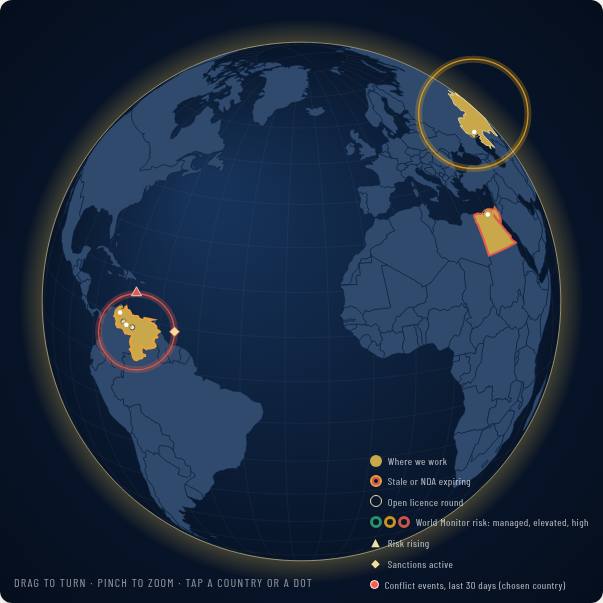
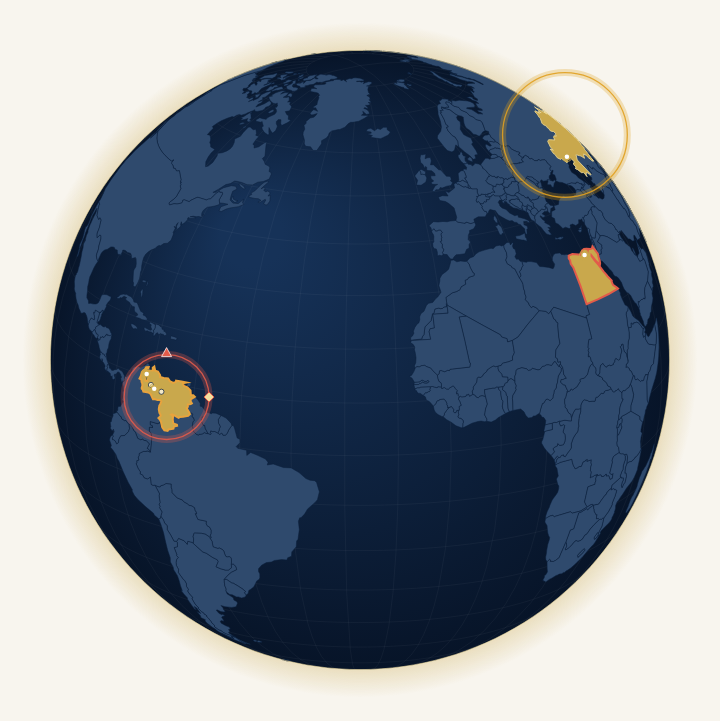
The globe stands on a full-width stage without a box, the legend sits on its right and turns into the chosen country's values
First live look at wave 8: the legend sat over the hint inside the blue
box and the globe was cropped. The globe is now centred on a full-width
stage up to 720 px with no box; the legend is a column on its right, under
the globe on an iPad in portrait; the register follows below in its own
scroll box. Choosing a country fills each legend line with that country's
values (projects, stale and NDA, open round, World Monitor index with tone
and trend, sanctions, conflict events near our fields), in both languages;
leaving restores the plain legend. The register column's column flexbox
collapsed to nothing below the stage, so it is a block now. W8-AC7 and
AC8, tests written first.

Claude-Session: https://claude.ai/code/session_01Cjvnf42mX2Ab9Sf24rXZ1W

diff --git a/hub/hub.js b/hub/hub.js
@@ -703,7 +703,7 @@ async function renderGlobe(person) {
       panel.setAttribute('hidden', ''); reg.removeAttribute('hidden'); if (filters) filters.removeAttribute('hidden'); unplaced.style.display = '';
       const intel = $('#country-intel'); if (intel) { intel.setAttribute('hidden', ''); intel.textContent = ''; intelFor = null; }
       showPack(null); showRound(null);
-      clearNear();
+      clearNear(); legendFor(null);
       if (globe) globe.select(null);
       return;
     }
@@ -719,12 +719,37 @@ async function renderGlobe(person) {
     const createRow = $('#country-create-row');
     if (createRow) { if (person && person.role === 'partner') createRow.removeAttribute('hidden'); else createRow.setAttribute('hidden', ''); }
     reg.setAttribute('hidden', ''); if (filters) filters.setAttribute('hidden', ''); unplaced.style.display = 'none'; panel.removeAttribute('hidden');
-    clearNear();
+    clearNear(); legendFor(code, c);
     renderIntel(code, names, { onLoaded: (S) => showNear(code, c, S) });
     showPack(code);
     showRound(code);
     if (briefUi) briefUi.loadCached(code);
     if (globe) globe.select(code, { fly: true });
+  }
+  // Wave 8 (W8-AC8): the legend turns into the chosen country's own values; nothing chosen, the plain legend.
+  const legendEl = $('#globe-legend');
+  const lv = (k) => legendEl && legendEl.querySelector('[data-legend-value="' + k + '"]');
+  const setLv = (k, en, es) => { const el = lv(k); if (!el) return; el.textContent = ''; if (en !== null && en !== undefined) setText(el, en, es); };
+  function legendFor(code, c) {
+    if (!legendEl) return;
+    if (!code) { legendEl.removeAttribute('data-country'); for (const el of legendEl.querySelectorAll('[data-legend-value]')) el.textContent = ''; return; }
+    legendEl.setAttribute('data-country', code);
+    const name = names.get(code) || (c && c.name) || { en: code, es: code };
+    const n = c ? c.projects.length : 0;
+    setLv('held', name.en + ' · ' + n + (n === 1 ? ' project' : ' projects'), name.es + ' · ' + n + (n === 1 ? ' proyecto' : ' proyectos'));
+    const st = c ? c.counts.stale : 0, ex = c ? c.counts.expiring : 0;
+    setLv('attention', st + ' stale · ' + ex + ' NDA expiring', st + ' obsoletos · ' + ex + ' NDA por vencer');
+    const open = (sec.getAttribute('data-rings') || '').split(',').includes(code);
+    setLv('round', open ? 'open round' : 'no open round', open ? 'ronda abierta' : 'sin ronda abierta');
+    const r = c && c.risk;
+    if (r && typeof r.score === 'number') {
+      const tone = toneOf(r.score), lab = RISK_LABEL[tone] || ['', ''];
+      const tr = r.trend === 'rising' ? ['rising', 'al alza'] : r.trend === 'falling' ? ['falling', 'a la baja'] : r.trend ? [r.trend, r.trend === 'stable' ? 'estable' : r.trend] : ['', ''];
+      setLv('halo', Math.round(r.score) + ' · ' + lab[0] + (tr[0] ? ' · ' + tr[0] : ''), Math.round(r.score) + ' · ' + lab[1] + (tr[1] ? ' · ' + tr[1] : ''));
+      setLv('rising', tr[0] || 'no trend', tr[1] || 'sin tendencia');
+      setLv('sanctions', r.sanctions_active ? (r.sanctions_count != null ? r.sanctions_count + ' designations' : 'active') : 'none recorded', r.sanctions_active ? (r.sanctions_count != null ? r.sanctions_count + ' designaciones' : 'vigentes') : 'ninguna registrada');
+    } else { for (const k of ['halo', 'rising', 'sanctions']) setLv(k, 'no reading', 'sin lectura'); }
+    setLv('events', 'reading…', 'leyendo…');
   }
   // Wave 8 (W8-AC4, W8-AC5): the chosen country's conflict events on the globe, the events within NEAR_KM of our located
   // projects and fields, and the tanker calls across its ports; cleared on leaving the country.
@@ -738,6 +763,7 @@ async function renderGlobe(person) {
   function showNear(code, c, S) {
     if (sec.getAttribute('data-country') !== code) return;                  // another country was chosen meanwhile
     const ev = S && S.events && S.events.ok && Array.isArray(S.events.data) ? S.events.data.filter((e) => Number.isFinite(e.lat) && Number.isFinite(e.lon)) : null;
+    if (!ev) setLv('events', 'not available', 'no disponible');
     if (ev && nearEl) {
       if (globe) globe.setEvents(ev);
       sec.setAttribute('data-events-shown', String(ev.length));
@@ -748,6 +774,7 @@ async function renderGlobe(person) {
       }
       const near = ours.length ? ev.filter((e) => ours.some(([la, lo]) => haversineKm(la, lo, e.lat, e.lon) <= NEAR_KM)) : [];
       const n = near.length, f = near.reduce((s, e) => s + (Number.isFinite(e.fatalities) ? e.fatalities : 0), 0), rest = ev.length - n;
+      setLv('events', ev.length + ' in 30 days · ' + n + ' within ' + NEAR_KM + ' km of our fields', ev.length + ' en 30 días · ' + n + ' a menos de ' + NEAR_KM + ' km de nuestros campos');
       nearEl.textContent = ''; nearEl.setAttribute('data-near-events', String(n));
       if (!ours.length) setText(nearEl, 'No located project or field here to measure from; ' + ev.length + (ev.length === 1 ? ' conflict event' : ' conflict events') + ' in the country in 30 days.', 'Sin proyecto ni campo ubicado aquí desde donde medir; ' + ev.length + (ev.length === 1 ? ' evento de conflicto' : ' eventos de conflicto') + ' en el país en 30 días.');
       else if (n) setText(nearEl, n + (n === 1 ? ' conflict event' : ' conflict events') + ' within ' + NEAR_KM + ' km of our fields in 30 days (' + f + (f === 1 ? ' fatality' : ' fatalities') + ')', n + (n === 1 ? ' evento' : ' eventos') + ' de conflicto a menos de ' + NEAR_KM + ' km de nuestros campos en 30 días (' + f + (f === 1 ? ' víctima mortal' : ' víctimas mortales') + ')');

diff --git a/hub/index.html b/hub/index.html
@@ -221,20 +221,22 @@
       <!-- THE GLOBE IS THE DOOR (wave 2 globe; wave 7 PR2 idea A): the globe and the live register beside it -->
       <section id="sec-globe" aria-labelledby="h-globe" data-globe="loading">
         <div class="hub-globe">
-          <div class="hub-globe-wrap">
-            <canvas id="globe" role="img" aria-label="Globe of where the firm works. Use the register beside it." data-en-aria="Globe of where the firm works. Use the register beside it." data-es-aria="Globo de dónde trabaja la firma. Use el registro al lado."></canvas>
-            <div class="hub-globe-tip" id="globe-tip" hidden aria-hidden="true"></div>
-            <p class="hub-globe-hint" data-en="Drag to turn · pinch to zoom · tap a country or a dot" data-es="Arrastre para girar · pellizque para acercar · toque un país o un punto">Drag to turn · pinch to zoom · tap a country or a dot</p>
+          <div class="hub-globe-stage">
+            <div class="hub-globe-wrap">
+              <canvas id="globe" role="img" aria-label="Globe of where the firm works. Use the register beside it." data-en-aria="Globe of where the firm works. Use the register beside it." data-es-aria="Globo de dónde trabaja la firma. Use el registro al lado."></canvas>
+              <div class="hub-globe-tip" id="globe-tip" hidden aria-hidden="true"></div>
+            </div>
             <ul class="hub-globe-legend" id="globe-legend" aria-label="Legend">
-              <li data-legend="held"><span class="hub-lg-swatch held" aria-hidden="true"></span><span data-en="Where we work" data-es="Dónde trabajamos">Where we work</span></li>
-              <li data-legend="attention"><span class="hub-lg-swatch attention" aria-hidden="true"></span><span data-en="Stale or NDA expiring" data-es="Obsoleto o NDA por vencer">Stale or NDA expiring</span></li>
-              <li data-legend="round"><span class="hub-lg-swatch round" aria-hidden="true"></span><span data-en="Open licence round" data-es="Ronda de licencias abierta">Open licence round</span></li>
-              <li data-legend="halo"><span class="hub-lg-swatch halo" aria-hidden="true"><i class="g"></i><i class="a"></i><i class="r"></i></span><span data-en="World Monitor risk: managed, elevated, high" data-es="Riesgo World Monitor: gestionado, elevado, alto">World Monitor risk: managed, elevated, high</span></li>
-              <li data-legend="rising"><span class="hub-lg-mark" aria-hidden="true">▲</span><span data-en="Risk rising" data-es="Riesgo al alza">Risk rising</span></li>
-              <li data-legend="sanctions"><span class="hub-lg-mark" aria-hidden="true">◆</span><span data-en="Sanctions active" data-es="Sanciones vigentes">Sanctions active</span></li>
-              <li data-legend="events"><span class="hub-lg-swatch event" aria-hidden="true"></span><span data-en="Conflict events, last 30 days (chosen country)" data-es="Eventos de conflicto, últimos 30 días (país elegido)">Conflict events, last 30 days (chosen country)</span></li>
+              <li data-legend="held"><span class="hub-lg-swatch held" aria-hidden="true"></span><span class="lg-name" data-en="Where we work" data-es="Dónde trabajamos">Where we work</span><span class="lg-value" data-legend-value="held"></span></li>
+              <li data-legend="attention"><span class="hub-lg-swatch attention" aria-hidden="true"></span><span class="lg-name" data-en="Stale or NDA expiring" data-es="Obsoleto o NDA por vencer">Stale or NDA expiring</span><span class="lg-value" data-legend-value="attention"></span></li>
+              <li data-legend="round"><span class="hub-lg-swatch round" aria-hidden="true"></span><span class="lg-name" data-en="Open licence round" data-es="Ronda de licencias abierta">Open licence round</span><span class="lg-value" data-legend-value="round"></span></li>
+              <li data-legend="halo"><span class="hub-lg-swatch halo" aria-hidden="true"><i class="g"></i><i class="a"></i><i class="r"></i></span><span class="lg-name" data-en="World Monitor risk: managed, elevated, high" data-es="Riesgo World Monitor: gestionado, elevado, alto">World Monitor risk: managed, elevated, high</span><span class="lg-value" data-legend-value="halo"></span></li>
+              <li data-legend="rising"><span class="hub-lg-mark" aria-hidden="true">▲</span><span class="lg-name" data-en="Risk rising" data-es="Riesgo al alza">Risk rising</span><span class="lg-value" data-legend-value="rising"></span></li>
+              <li data-legend="sanctions"><span class="hub-lg-mark" aria-hidden="true">◆</span><span class="lg-name" data-en="Sanctions active" data-es="Sanciones vigentes">Sanctions active</span><span class="lg-value" data-legend-value="sanctions"></span></li>
+              <li data-legend="events"><span class="hub-lg-swatch event" aria-hidden="true"></span><span class="lg-name" data-en="Conflict events, last 30 days (chosen country)" data-es="Eventos de conflicto, últimos 30 días (país elegido)">Conflict events, last 30 days (chosen country)</span><span class="lg-value" data-legend-value="events"></span></li>
             </ul>
           </div>
+          <p class="hub-globe-hint" data-en="Drag to turn · pinch to zoom · tap a country or a dot" data-es="Arrastre para girar · pellizque para acercar · toque un país o un punto">Drag to turn · pinch to zoom · tap a country or a dot</p>
           <div class="hub-globe-side" id="register-column">
             <div class="hub-sec-head hub-reg-head">
               <div>

diff --git a/hub/hub.css b/hub/hub.css
@@ -655,7 +655,7 @@
 .hub-risk-mark { white-space: nowrap; }
 .hub-risk-mark[data-risk-trend="rising"] { color: var(--bad); }
 .hub-risk-mark[data-risk-trend="falling"] { color: #2E9E6E; }
-@media (max-width: 640px) { .hub-globe-legend { display: none; } }
+@media (max-width: 640px) { .hub .hub-globe-legend { grid-template-columns: 1fr; } }
 #country-list { display: flex; flex-direction: column; gap: 6px; }
 .hub-country { display: grid; grid-template-columns: minmax(0, 1fr) auto; gap: 2px 10px; width: 100%; text-align: left; background: var(--white); border: 1px solid var(--rule); border-radius: var(--r-lg); padding: 10px 14px; cursor: pointer; font: inherit; color: var(--navy); }
 .hub-country:hover { border-color: var(--gold); background: #FFFDF8; }
@@ -1222,9 +1222,22 @@ body[data-ready] .hub-project #p-skeleton { display: none; }
 .hub .hub-head-today h1 { font-size: 1.6rem; margin-top: 2px; }
 .hub .hub-head-today .label { font-size: 12px; }
 /* the globe at 55 % with the live register beside it, scrolling inside its column (idea A) */
-.hub .hub-globe { grid-template-columns: 55fr 45fr; gap: 24px; align-items: stretch; margin-bottom: 0; }
-.hub .hub-globe-wrap { max-height: none; align-self: start; }   /* its height follows its width; the row, and the register column, follow it */
-.hub .hub-globe-side { display: flex; flex-direction: column; height: 0; min-height: 100%; }
+/* Wave 8 (W8-AC7): the globe stands on a full-width stage, centred and without a box, the legend in a column on its right
+   (its values turn into the chosen country's own, W8-AC8); the register follows below, full width. */
+.hub .hub-globe { grid-template-columns: 1fr; gap: 18px; align-items: start; margin-bottom: 0; }
+.hub .hub-globe-stage { display: grid; grid-template-columns: minmax(0, 1fr) 300px; gap: 28px; align-items: center; }
+.hub .hub-globe-wrap { width: min(100%, 720px); max-height: none; margin: 0 auto; background: none; border-radius: 0; box-shadow: none; overflow: visible; align-self: center; }
+.hub .hub-globe-hint { position: static; margin: -6px 0 0; text-align: center; color: var(--muted); }
+.hub .hub-globe-legend { position: static; max-width: none; display: grid; gap: 10px; font-size: 12px; letter-spacing: .03em; color: var(--navy-mid); align-self: center; }
+.hub .hub-globe-legend li { display: grid; grid-template-columns: 24px minmax(0, 1fr); column-gap: 8px; align-items: start; white-space: normal; overflow: visible; }
+.hub .hub-globe-legend .hub-lg-swatch, .hub .hub-globe-legend .hub-lg-mark { margin-top: 2px; }
+.hub .hub-globe-legend .hub-lg-mark { color: var(--gold); }
+.hub .hub-globe-legend .lg-value { grid-column: 2; font-weight: 700; color: var(--navy); font-variant-numeric: tabular-nums; }
+.hub .hub-globe-legend .lg-value:empty { display: none; }
+.hub .hub-globe-legend[data-country] .lg-name { color: var(--muted); }
+.hub .hub-globe-side { display: block; height: auto; min-height: 0; }
+.hub .hub-register-live { flex: none; max-height: 60vh; overflow-y: auto; }
+.hub #country-panel { flex: none; max-height: none; overflow: visible; }
 .hub .hub-globe-side .hub-reg-head { margin-bottom: 8px; flex: none; }
 .hub .hub-globe-side .hub-reg-head h2 { font-size: 1.25rem; }
 .hub .hub-reg-filters { display: flex; gap: 6px; align-items: center; flex-wrap: wrap; margin-bottom: 8px; flex: none; font-size: 12.5px; }
@@ -1250,6 +1263,8 @@ body[data-ready] .hub-project #p-skeleton { display: none; }
 .hub .hub-create-here { margin-top: 10px; }
 @media (max-width: 900px) {
   .hub .hub-globe { grid-template-columns: 1fr; gap: 16px; }
+  .hub .hub-globe-stage { grid-template-columns: 1fr; gap: 12px; }
+  .hub .hub-globe-legend { grid-template-columns: repeat(2, minmax(0, 1fr)); gap: 6px 14px; }
   .hub .hub-globe-side { height: auto; min-height: 0; }
   .hub .hub-register-live { max-height: 60vh; }
   .hub #country-panel { max-height: none; flex: none; overflow: visible; }

diff --git a/docs/vault-hub/wave8/01-risk-on-the-map.md b/docs/vault-hub/wave8/01-risk-on-the-map.md
@@ -40,6 +40,8 @@ Vault: `db/013_country_risk_log.sql` (new), `src/intel/risk-log.ts` (new), `src/
 - **W8-AC4** Choosing a country draws its ACLED events as clustered dots (`data-events-shown` on `#sec-globe`) and writes the near-fields line from the events within 100 km of the country's located projects and fields; leaving the country clears both. No browser request goes to worldmonitor.app.
 - **W8-AC5** The ports line sums tanker calls across the country's ports and gives the trend; it is absent when the section did not answer.
 - **W8-AC6** `get_project_context` for a project with a country carries the risk block with the score, level, trend, sanctions, change and advisories when World Monitor is connected, and no such block without a key; the key never appears.
+- **W8-AC7** (after first live use, 7 October: "The legend is poorly positioned. Can we make the globe bigger in the centre of the screen and not in a blue box with the legend on its right side.") The globe stands on a full-width stage, centred, at least 600 px wide on a desktop viewport, with no box behind it; the legend is a column on its right, never over the canvas; on an iPad in portrait the legend drops under the globe; the register follows below, full width, scrolling in its own box.
+- **W8-AC8** ("If I click on a country on the globe … the legend should show the actual values.") Choosing a country turns the legend into that country's values under each name: projects, stale and NDA expiring, open round or not, the World Monitor index with its tone word and trend, the trend, the sanctions count, and the conflict events with those within 100 km of our fields; "no reading" where there is none; leaving the country restores the plain legend. Both languages.
 
 ## 5. Smoke plan
 
@@ -51,6 +53,8 @@ Vault: `db/013_country_risk_log.sql` (new), `src/intel/risk-log.ts` (new), `src/
 | W8-AC4 | `hub-globe.spec.mjs` W8-AC4: intel mock with one event 15 km from Barinas and one 180 km away → `data-events-shown="2"`, near line "1 conflict event within 100 km"; back to all countries clears both; worldmonitor.app never requested |
 | W8-AC5 | the same test with two ports → "Ports: 120 tanker calls in 30 days across 2 ports · trend −8 %"; ports failed → no line |
 | W8-AC6 | `mcp.risk.test.ts`: with a fake World Monitor the context markdown carries the block and the advisory; without a key it does not |
+| W8-AC7 | `hub-globe.spec.mjs` W8-AC7: the legend is in the stage, not the wrap; the wrap has no background image; the canvas is ≥ 600 px wide at 1440 px and the legend's left edge is right of the canvas; at 820 px the legend is below the canvas |
+| W8-AC8 | `hub-globe.spec.mjs` W8-AC8: the seven values for Venezuela in EN and ES, cleared on leaving, "no reading" for Egypt; evidence `w8-risk-stage.png` |
 | Migrations | `auth`, `boot`, `db` tests count 13 |
 
 Risks: the halo must not be mistaken for the round ring (different colour family, thicker and softer, no dash); the globe stays readable on an iPad at 1x zoom (the halo radius follows the ring's cap radius). Rollback: revert the PR; the log table is harmless when unread.

diff --git a/docs/vault-hub/wave7/06-decision-log.md b/docs/vault-hub/wave7/06-decision-log.md
@@ -60,3 +60,5 @@ Two source defects from the same day's reading, fixed with tests: jodidata.org a
 
 Chris Hopkinson: "Could we colour countries or give them halos related to the country risk level… What about the risk table that we have in the opportunity register, I liked that." A compressed practice scan (insurers' political risk maps, International SOS, Windward and Lloyd's List, ACLED) and a two-step proposal; the decision, verbatim: "Build both and open pr." Markup and acceptance criteria W8-AC1 to AC6 in `../wave8/01-risk-on-the-map.md`. Shipped in one pull request: a halo per held country in the register's three tones with a rising tick and a sanctions mark, the same marks in the panel's risk line and the register's group head, a legend, the chosen country's ACLED events as clustered dots with a near-our-fields line (100 km) and a ports line, an append-only risk log (migration 013) so the Hub and the connector say what changed since the previous reading, and the risk block in `get_project_context`. Not built, named: a whole-globe tint, events for every held country at once, a dark theme.
 
+First live look, the same morning: "The legend is poorly positioned. Can we make the globe bigger in the centre of the screen and not in a blue box with the legend on its right side. If I click on a country on the globe and it goes to the static 2D map the legend should show the actual values." Done as W8-AC7 and W8-AC8: the globe on a full-width stage with no box, the legend a column on its right that turns into the chosen country's values, the register below.
+
